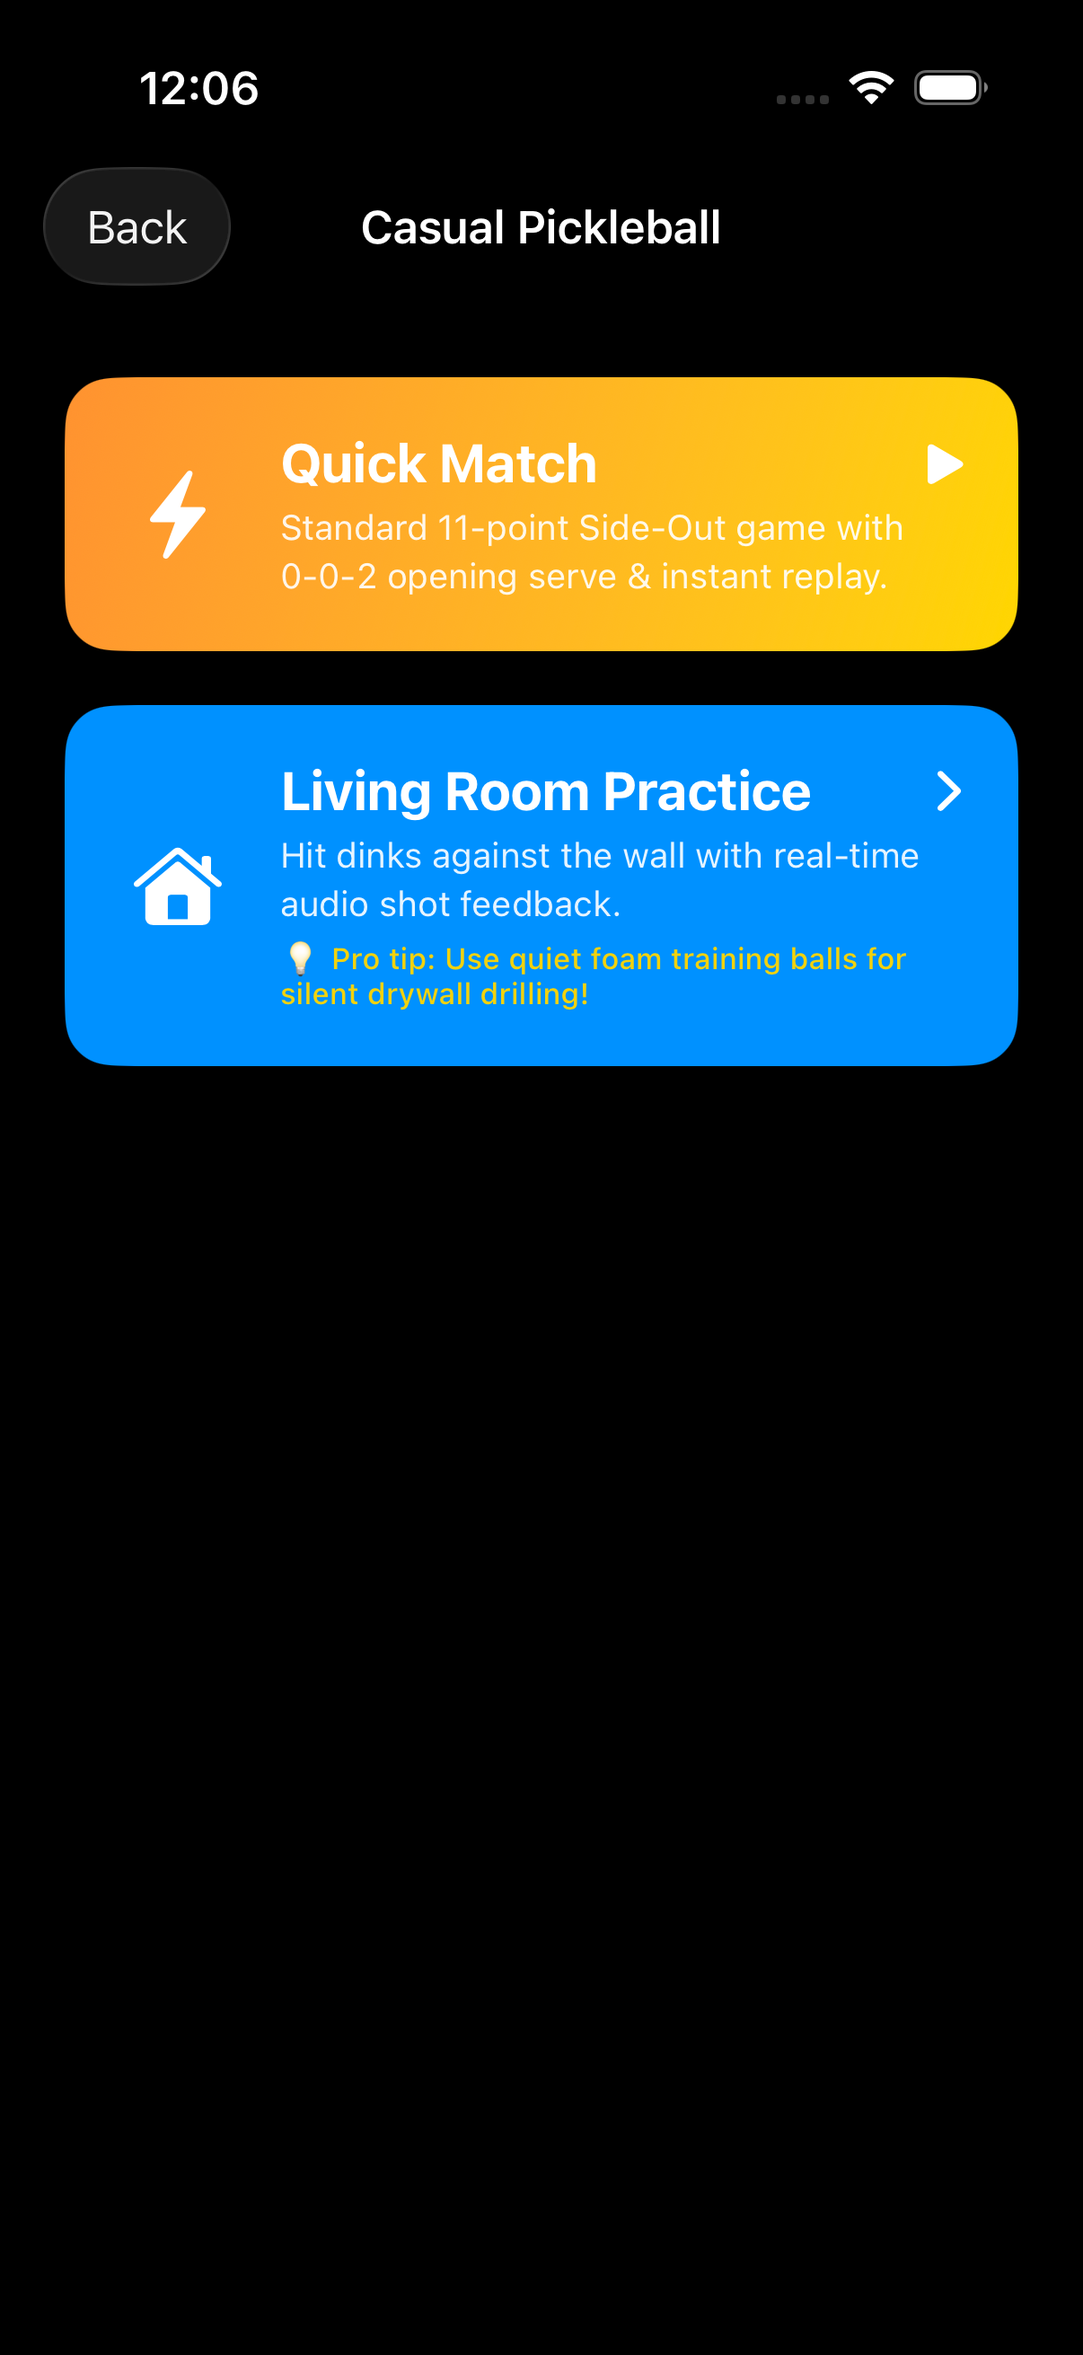
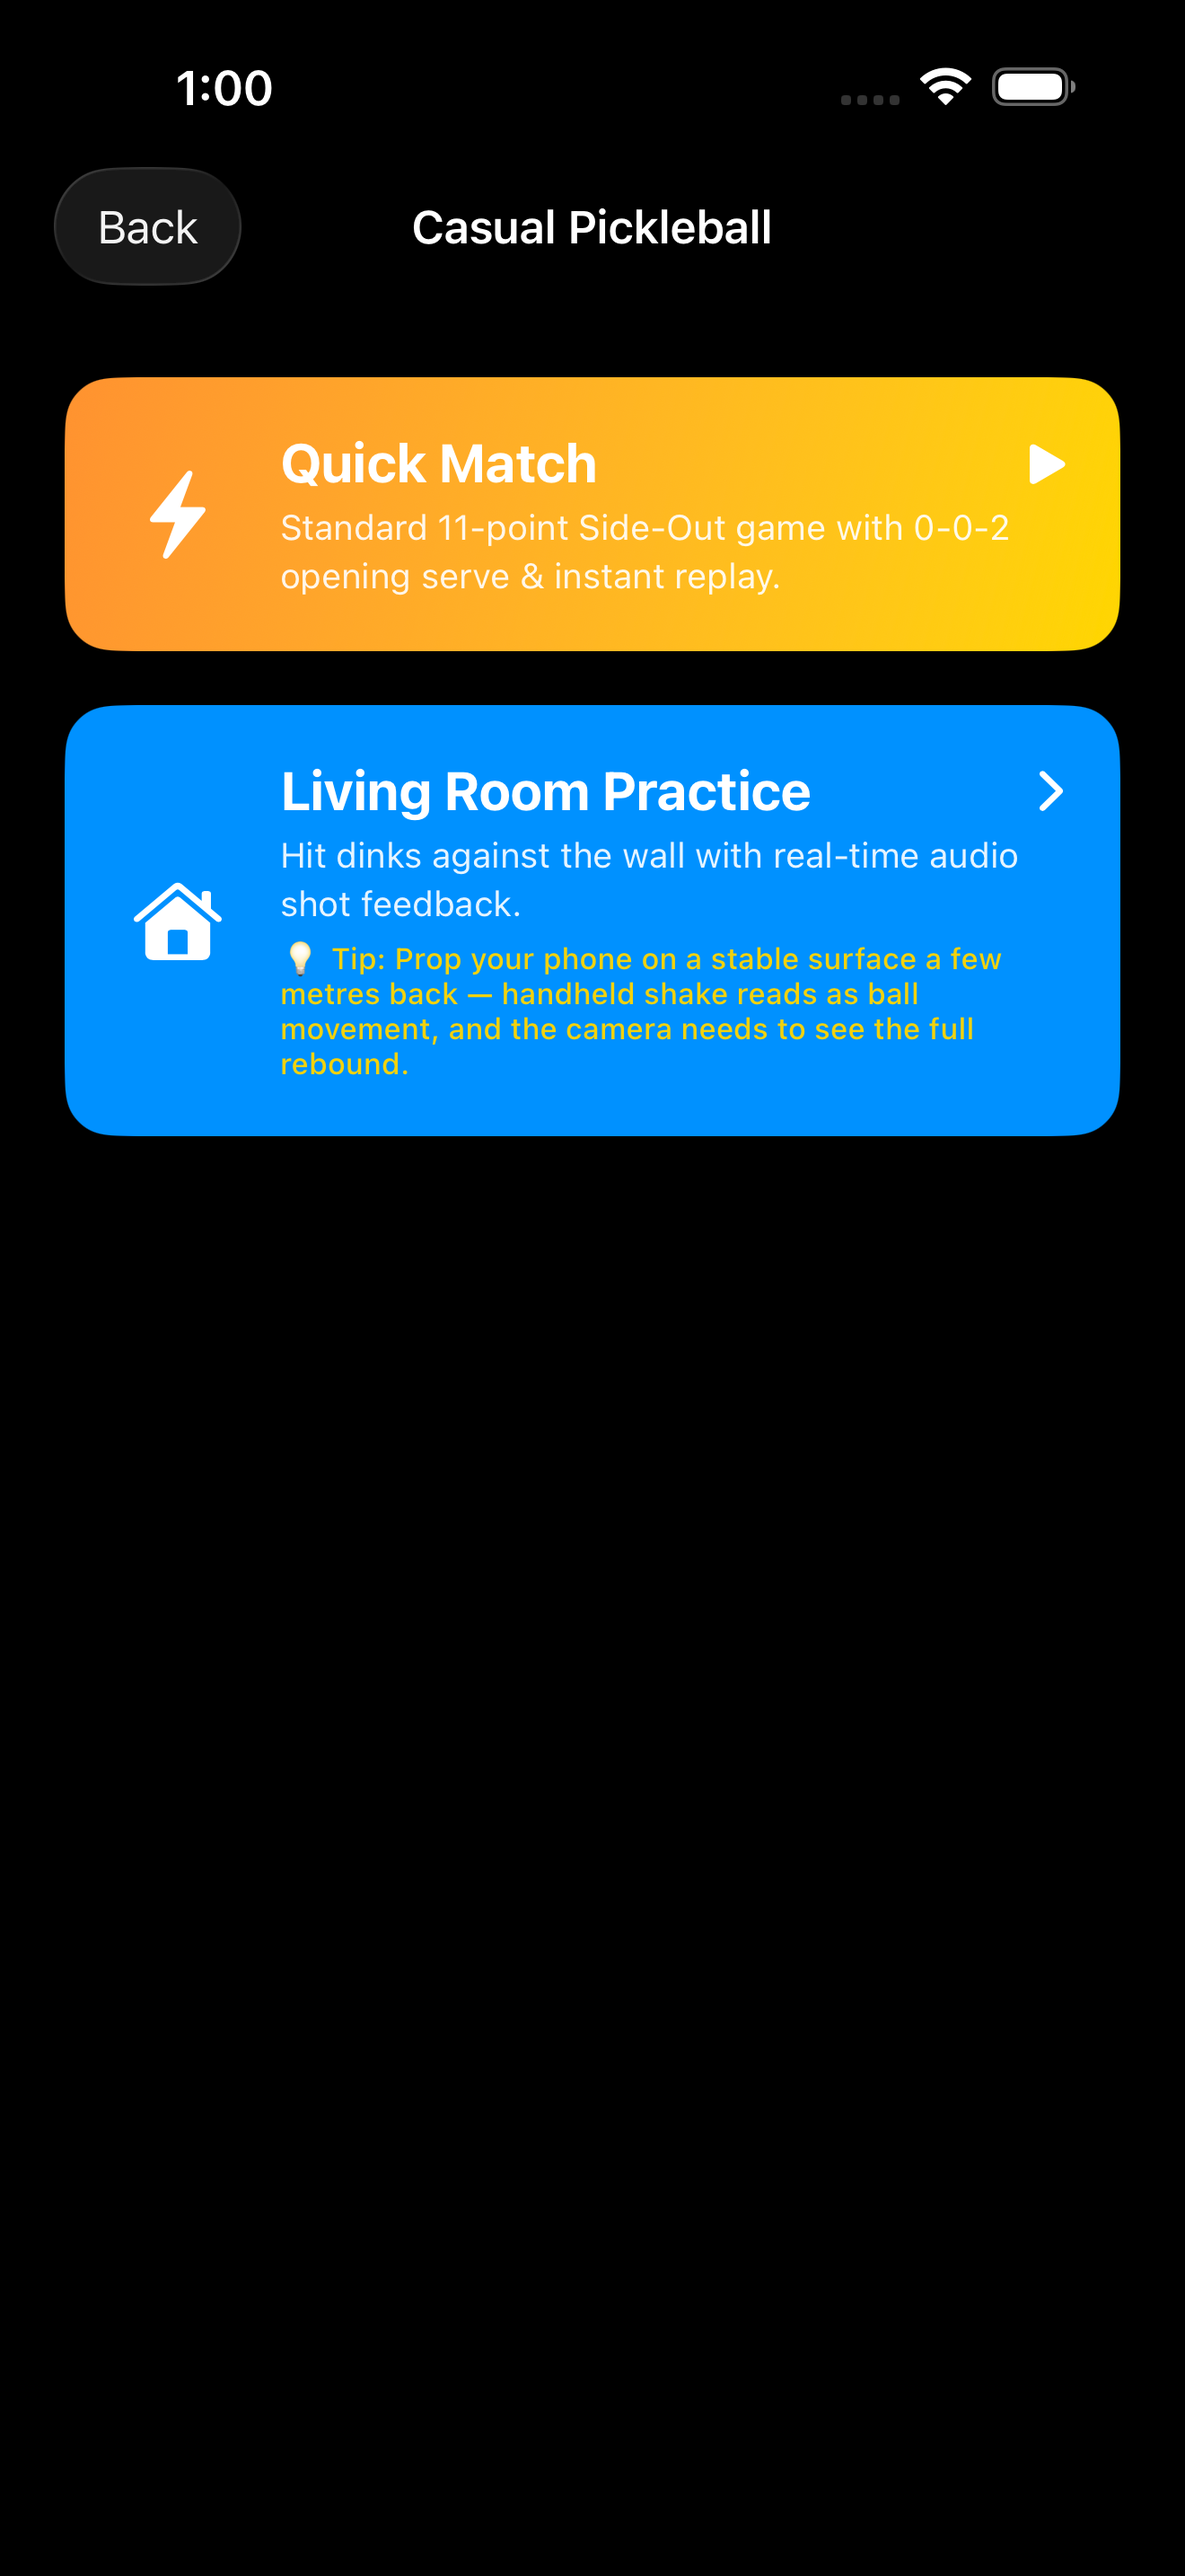
Give Kitchen Fault Alerts its own tile on the Kitchen Vision page
Adds the feature card, a hero pill, and a gallery tile showing the actual
"Possible kitchen fault" prompt captured from the running app.

Copy is careful for the same reason the App Store listing is: the app raises the
moment and puts the replay one tap away, and a human makes the call. It does not
call kitchen faults and does not change the score, and the page must not imply
otherwise.

Also refreshes the two gallery shots whose content changed with the new splash
artwork and the rewritten practice tip, and converts the splash to JPEG — it is
a photograph now rather than flat UI, and as a PNG it was 5.2MB, ten times
heavier than every other asset on the page.

diff --git a/kitchen_vision/index.html b/kitchen_vision/index.html
@@ -250,6 +250,7 @@
         <span class="pill">0-0-2 Callout Engine</span>
         <span class="pill">VAR &frac14;&times; Slow-Mo</span>
         <span class="pill">Shot Speed</span>
+        <span class="pill">Kitchen Fault Alerts</span>
         <span class="pill">100% Offline P2P</span>
         <span class="pill">Master Desk</span>
       </div>
@@ -262,7 +263,7 @@
       
       <div class="gallery">
         <div class="shot-card">
-          <img src="../assets/kitchen_vision/splash_screen.png" alt="Kitchen Vision Cinematic Splash Screen" loading="lazy">
+          <img src="../assets/kitchen_vision/splash_screen.jpg" alt="Kitchen Vision Cinematic Splash Screen" loading="lazy">
           <div class="shot-caption">
             Cinematic Optical Reveal
             <div class="shot-sub">Optical laser sweep &amp; 3D ball-tracking visualization</div>
@@ -290,6 +291,14 @@
           <div class="shot-caption">
             Live Scoreboard
             <div class="shot-sub">Serve indicator, Let, Quick Replay &amp; Umpire Review</div>
+          </div>
+        </div>
+
+        <div class="shot-card">
+          <img src="../assets/kitchen_vision/kitchen_fault_prompt.png" alt="Kitchen Vision raising a possible kitchen fault for the umpire to review" loading="lazy">
+          <div class="shot-caption">
+            Kitchen Fault Alerts
+            <div class="shot-sub">Pro rig flags a possible foot fault &mdash; you judge it from the replay</div>
           </div>
         </div>
 
@@ -346,7 +355,13 @@
       </div>
 
       <div class="card">
-        <div class="card-num">05 · Tournament Desk</div>
+        <div class="card-num">05 · Kitchen Fault Alerts</div>
+        <h3>A Second Pair of Eyes On The Kitchen Line</h3>
+        <p>Set up all three phones and the umpire camera watches the non-volley zone. When a foot looks like it was inside it on a volley &mdash; or momentum carried a player in just after the shot &mdash; Kitchen Vision raises the moment and puts the replay one tap away. It flags the call for you to judge; it never makes the call or touches the score. Experimental, off by default, and Pro rig only, because it takes the side-on umpire angle to see a foot against that line.</p>
+      </div>
+
+      <div class="card">
+        <div class="card-num">06 · Tournament Desk</div>
         <h3>Multi-Court Live Standings Master Desk</h3>
         <p>Organize club round robins and elimination brackets on an iPad Master Desk. Court umpires connect instantly by scanning a QR code, streaming real-time live scores and match completions to the central desk.</p>
       </div>
